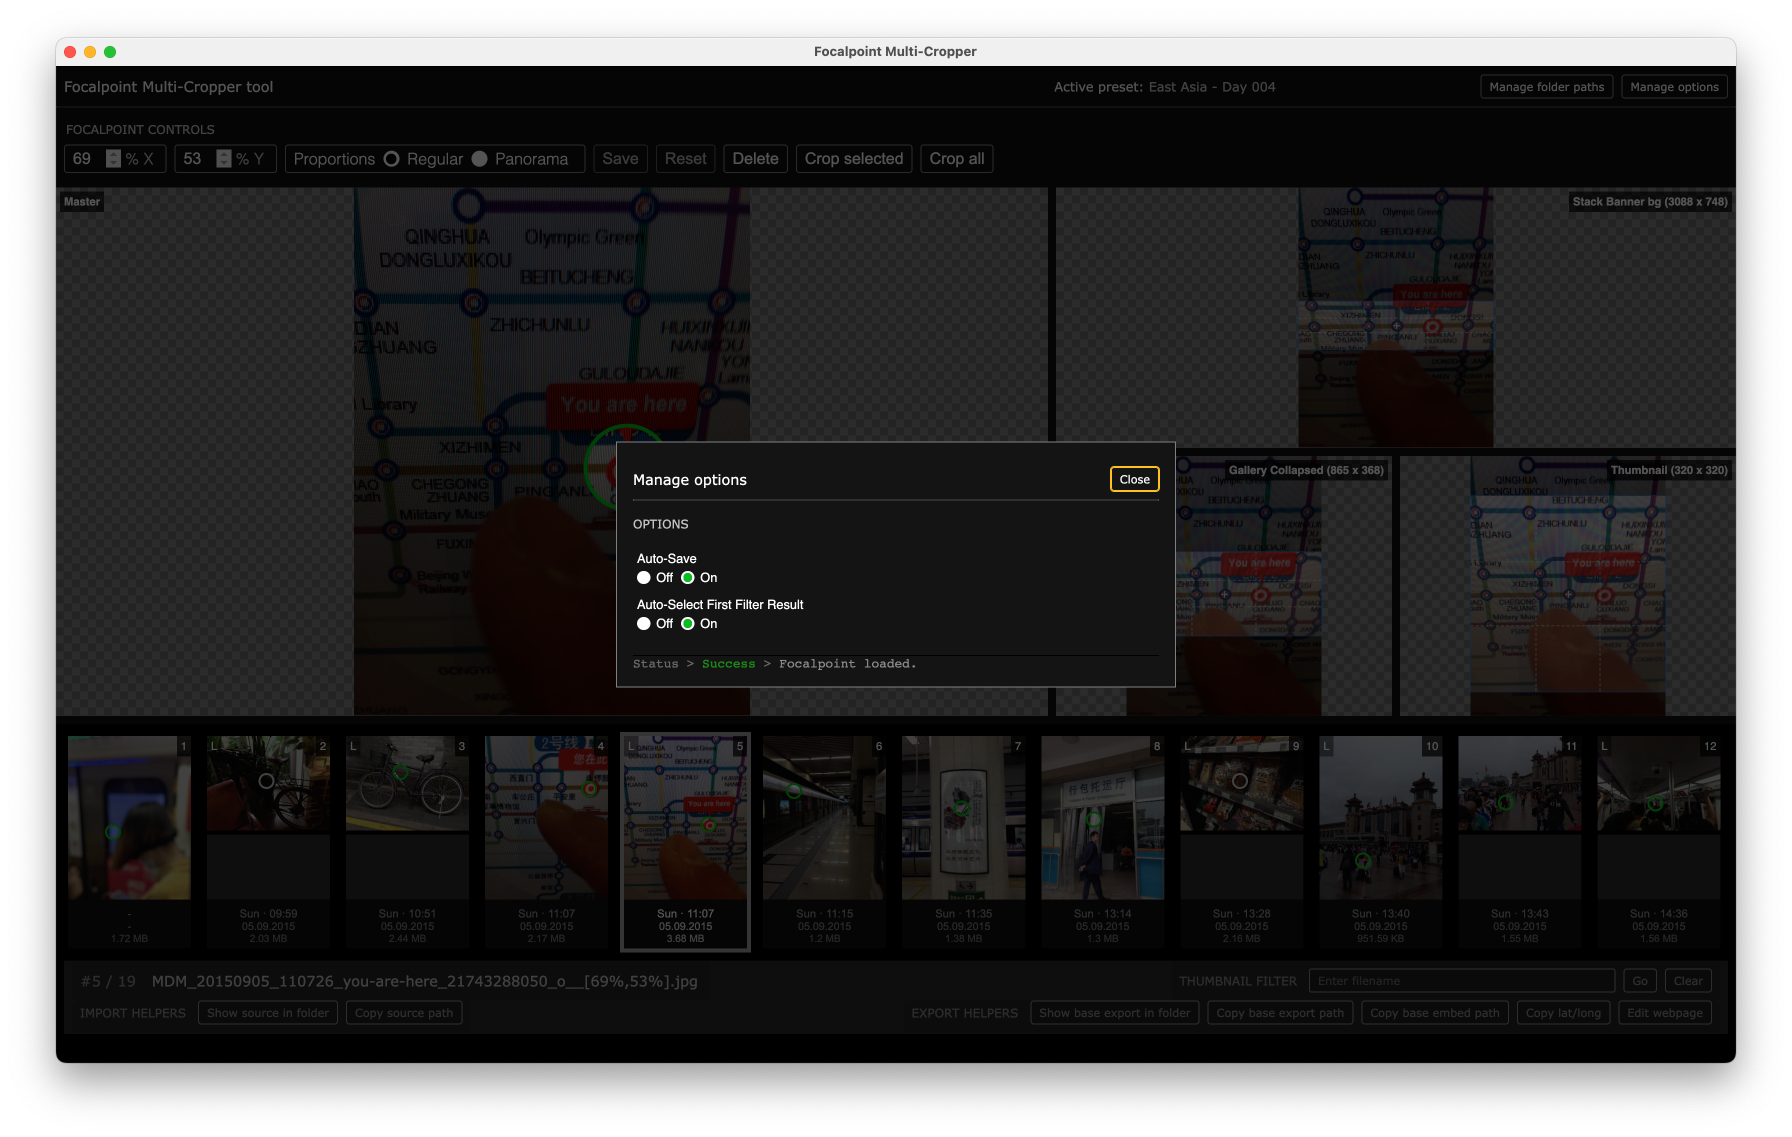
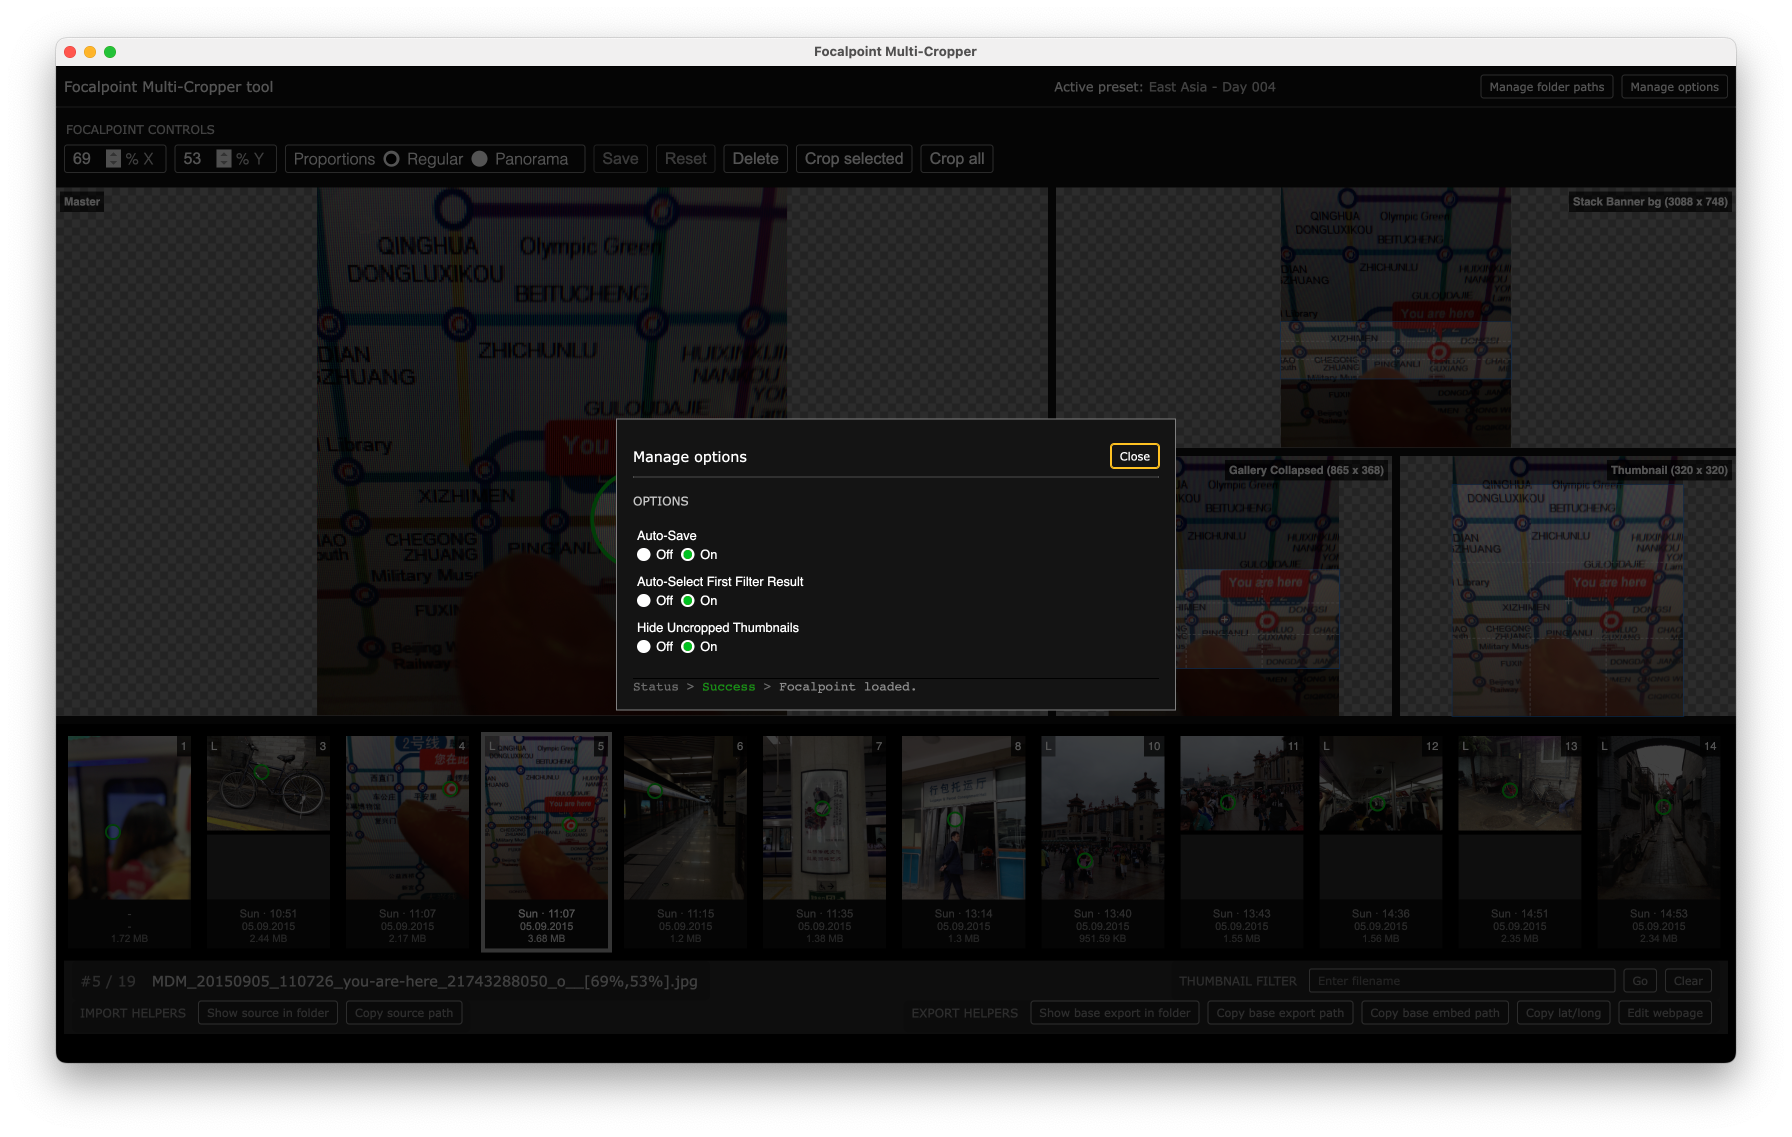
Add option to hide thumbs without focalpoints (fixes #65)

Changed region(s): [[0.0938, 0.1539, 0.9688, 0.8619], [0.7188, 0.1539, 0.9375, 0.5849]]

diff --git a/index.html b/index.html
@@ -276,6 +276,17 @@
               On
             </label>
           </div>
+          <div class="control-param plain">
+            <label for="thumbs-filter-uncropped-off thumbs-filter-uncropped-on" class="radios-label">Hide Uncropped Thumbnails</label>
+            <label class="l-radio-label">
+              <input type="radio" name="thumbs-filter-uncropped" value="off" id="thumbs-filter-uncropped-off" checked>
+              Off
+            </label>
+            <label class="l-radio-label">
+              <input type="radio" name="thumbs-filter-uncropped" value="on" id="thumbs-filter-uncropped-on">
+              On
+            </label>
+          </div>
         </fieldset>
       </form>
     </dialog>

diff --git a/README.md b/README.md
@@ -12,7 +12,7 @@
 
 * **Preview** - Single window containing multiple instances of [cropperjs](https://github.com/fengyuanchen/cropperjs) - one master cropper and one or more slave croppers with user-defined `exportWidth` and `exportHeight` proportions
 * **Load** - Leverage [Electron](https://www.electronjs.org/) to allow for loading of folders of images
-* **Filter** - Filter thumbnails by partial filename
+* **Filter** - Filter thumbnails by partial filename, and whether they have been cropped
 * **Set focalpoint** - Click the master cropper image or use the number inputs to set a focalpoint, slave croppers' crop boxes will automatically follow
 * **Rounding** - Round focalpoint XY to integers for easier storage
 * **Storage** - Toggle on auto-save to write a non-default focalpoint to the image filename as a resolution-independent percentage of its width and height (integers), e.g. `foo__[40%,37%].jpg` (regular) or `bar__[40%,37%,P].jpg` (panorama)
